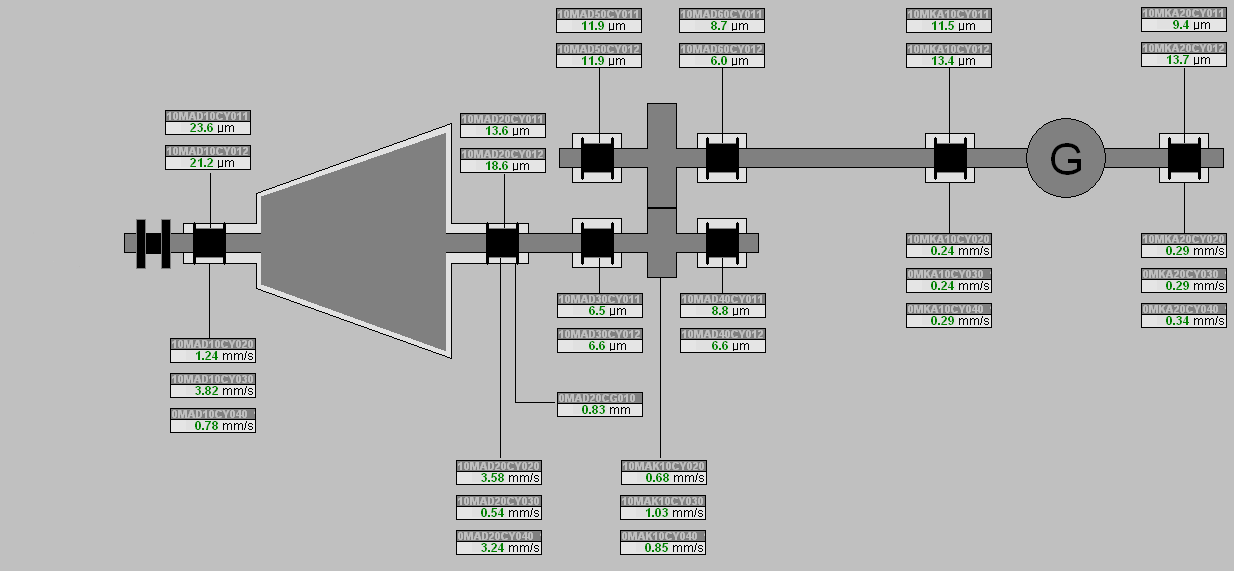
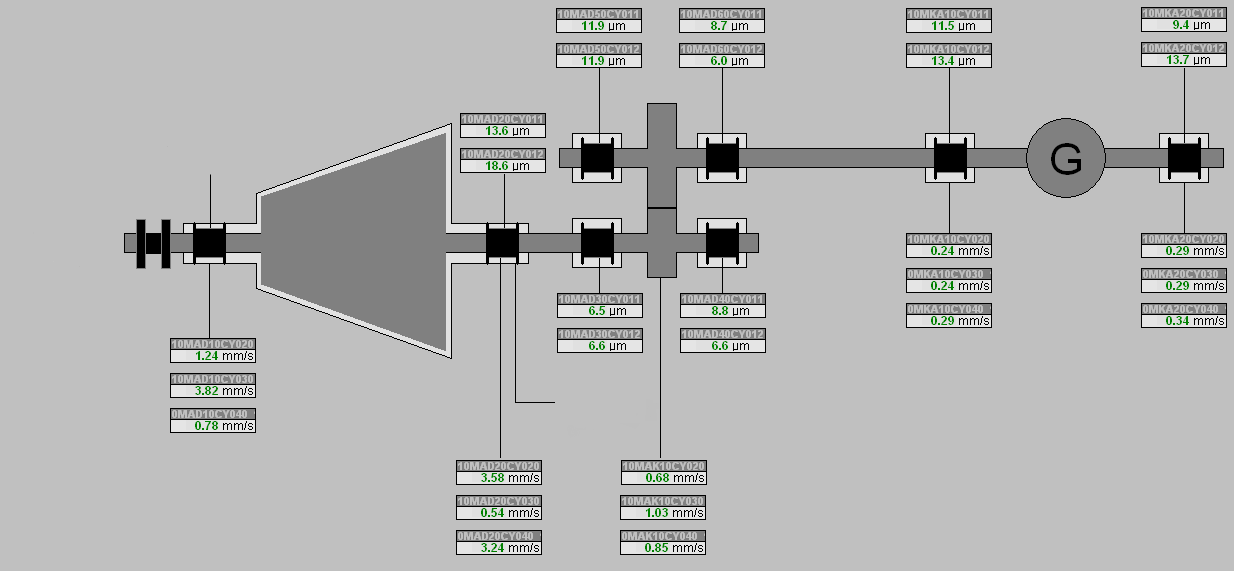
Добавлен метод в класс

Changed region(s): [[0.1232, 0.1786, 0.2156, 0.2977], [0.4311, 0.6848, 0.5235, 0.7443]]

diff --git a/BN/Views/Window/MainWindow.xaml b/BN/Views/Window/MainWindow.xaml
@@ -30,11 +30,18 @@
                         </StatusBarItem>
                     </StatusBar>
                     <Border Style="{StaticResource BorderForLabel}"  Margin="22,205,0,0" Background="{Binding bckgrd_10MAD10CG010}"/>
-                    <Border Style="{StaticResource BorderForLabel}"  Margin="22,247,0,0" />
-                    <Border Style="{StaticResource BorderForLabel}"  Margin="22,226,0,0" />
-                    <Label Content="{Binding prm_10MAD10CG012}" Style="{StaticResource Parent_LabelOnImage}" Margin="27,241,0,0" Height="30"/>
+                    <Border Style="{StaticResource BorderForLabel}"  Margin="22,247,0,0" Background="{Binding bckgrd_10MAD10CG012}"/>
+                    <Border Style="{StaticResource BorderForLabel}"  Margin="22,226,0,0" Background="{Binding bckgrd_10MAD10CG011}"/>
+                    <Border Style="{StaticResource BorderForLabel}"  Margin="501,370,0,0" Background="{Binding bckgrd_10MAD20CG010}"/>
+                    <Label Content="{Binding prm_10MAD10CG012}" Style="{StaticResource Parent_LabelOnImage}" Margin="27,241,0,0"/>
                     <Label Content="{Binding prm_10MAD10CG011}" Style="{StaticResource Parent_LabelOnImage}" Margin="27,220,0,0"/>
                     <Label Content="{Binding prm_10MAD10CG010}" Style="{StaticResource Parent_LabelOnImage}" Margin="27,199,0,0"/>
+                    <Label Content="{Binding prm_10MAD20CG010}" Style="{StaticResource Parent_LabelOnImage}" Margin="506,364,0,0"/>
+                    <Border Style="{StaticResource BorderForLabel}"  Margin="150,152,0,0" />
+                    <Label Content="{Binding prm_10MAD10CY011}" Style="{StaticResource Child_0_LabelOnImage}" Margin="155,125,0,0"/>
+                    <Border Style="{StaticResource BorderForLabel}"  Margin="150,131,0,0" />
+                    <Label Content="{Binding prm_10MAD10CY012}" Style="{StaticResource Child_0_LabelOnImage}" Margin="155,147,0,0"/>
+
                 </Grid>
             </TabItem>
             <TabItem Header="ГТ-7">

diff --git a/BN/App.xaml b/BN/App.xaml
@@ -26,8 +26,8 @@
             <Setter Property="HorizontalAlignment" Value="Left" />
             <Setter Property="VerticalAlignment" Value="Top" />
         </Style>
-                <Style x:Key="Child_LabelOnImage" TargetType="Label" BasedOn="{StaticResource Parent_LabelOnImage}">
-                <Setter Property="ContentStringFormat" Value="0.00 мк"/>
+                <Style x:Key="Child_0_LabelOnImage" TargetType="Label" BasedOn="{StaticResource Parent_LabelOnImage}">
+                <Setter Property="ContentStringFormat" Value="0.0 мк"/>
             </Style>
     </Application.Resources>
 </Application>

diff --git a/BN/ViewModels/Base/MainWindowViewModel.cs b/BN/ViewModels/Base/MainWindowViewModel.cs
@@ -16,22 +16,42 @@ namespace BN.ViewModels.Base
 {
     internal class MainWindowViewModel : ViewModel
     {
+        //Замена если вышло за границы
+        private const double FaultReplace_0 = 999.999; 
+        private const double FaultReplace_1 = 999.9;
+
+        #region Параметры для шкалирования ПТ-6
         private const ushort GatewayFullScaleValue_ST6 = 16383;
-        private const sbyte UpperMonitorRange_ST6_gr0 = 1;
-        private const sbyte LowerMonitorRange_ST6_gr0 = -1;
-        private const double FaultReplace_ST6_gr0 = 99.999;
 
-        private const double WH_Y_0_ST6_gr0 = 0.5;
-        private const double WH_Y_1_ST6_gr0 = 0.79;
-        private const double WL_Y_0_ST6_gr0 = -0.5;
-        private const double WL_Y_1_ST6_gr0 = -0.79;
-        private const double AH_R_0_ST6_gr0 = 0.8;
-        private const double AH_R_1_ST6_gr0 = 0.99;
-        private const double AL_R_0_ST6_gr0 = -0.8;
-        private const double AL_R_1_ST6_gr0 = -0.99;
-        private const double Fault_0_ST6_gr0 = 1;
-        private const double Fault_1_ST6_gr0 = -1;
+        private const short LowerMonitorRange_ST6_gr0 = 0;
+        private const short UpperMonitorRange_ST6_gr0 = 200;
 
+        private const short LowerMonitorRange_ST6_gr1 = -1;
+        private const short UpperMonitorRange_ST6_gr1 = 1;
+
+        private const short LowerMonitorRange_ST6_gr5 = -6;
+        private const short UpperMonitorRange_ST6_gr5 = 4;
+        #endregion
+
+        #region Аварийные и предупредительные границы ПТ-6
+        private const double WH_Y_0_ST6_gr1 = 0.5;
+        private const double WH_Y_1_ST6_gr1 = 0.79;
+        private const double WL_Y_0_ST6_gr1 = -0.5;
+        private const double WL_Y_1_ST6_gr1 = -0.79;
+        private const double AH_R_0_ST6_gr1 = 0.8;
+        private const double AH_R_1_ST6_gr1 = 1;
+        private const double AL_R_0_ST6_gr1 = -0.8;
+        private const double AL_R_1_ST6_gr1 = -1;
+
+        private const double WH_Y_0_ST6_gr5 = 0.5;
+        private const double WH_Y_1_ST6_gr5 = 1.99;
+        private const double WL_Y_0_ST6_gr5 = -2.5;
+        private const double WL_Y_1_ST6_gr5 = -3.99;
+        private const double AH_R_0_ST6_gr5 = 2;
+        private const double AH_R_1_ST6_gr5 = 4;
+        private const double AL_R_0_ST6_gr5 = -4.0;
+        private const double AL_R_1_ST6_gr5 = -6;
+        #endregion
 
         #region Заголовок окна
         private string _wnd_Title = "АСКВД BN";
@@ -67,12 +87,47 @@ namespace BN.ViewModels.Base
         }
         #endregion
 
-        #region Фон для параметров ПТ-6 надо делать
+        #region Фон для параметров ПТ-6
         private string _bckgrd_10MAD10CG010;
         public string bckgrd_10MAD10CG010
         {
             get => _bckgrd_10MAD10CG010;
             set => Set(ref _bckgrd_10MAD10CG010, value);
+        }
+
+        private string _bckgrd_10MAD10CG011;
+        public string bckgrd_10MAD10CG011
+        {
+            get => _bckgrd_10MAD10CG011;
+            set => Set(ref _bckgrd_10MAD10CG011, value);
+        }
+
+        private string _bckgrd_10MAD10CG012;
+        public string bckgrd_10MAD10CG012
+        {
+            get => _bckgrd_10MAD10CG012;
+            set => Set(ref _bckgrd_10MAD10CG012, value);
+        }
+
+        private string _bckgrd_10MAD20CG010;
+        public string bckgrd_10MAD20CG010
+        {
+            get => _bckgrd_10MAD20CG010;
+            set => Set(ref _bckgrd_10MAD20CG010, value);
+        }
+
+        private string _bckgrd_10MAD10CY011;
+        public string bckgrd_10MAD10CY011
+        {
+            get => _bckgrd_10MAD10CY011;
+            set => Set(ref _bckgrd_10MAD10CY011, value);
+        }
+
+        private string _bckgrd_10MAD10CY012;
+        public string bckgrd_10MAD10CY012
+        {
+            get => _bckgrd_10MAD10CY012;
+            set => Set(ref _bckgrd_10MAD10CY012, value);
         }
         #endregion
 
@@ -121,7 +176,7 @@ namespace BN.ViewModels.Base
         }
         #endregion
 
-        #region Измеряемые велечины
+        #region Измеряемые велечины ПТ-6
         private double _prm_10MAD10CG010;
         public double prm_10MAD10CG010
         {
@@ -142,6 +197,30 @@ namespace BN.ViewModels.Base
             get => _prm_10MAD10CG012;
             set => Set(ref _prm_10MAD10CG012, value);
         }
+
+        private double _prm_10MAD20CG010;
+        public double prm_10MAD20CG010
+        {
+            get => _prm_10MAD20CG010;
+            set => Set(ref _prm_10MAD20CG010, value);
+        }
+
+        private double _prm_10MAD10CY011;
+        public double prm_10MAD10CY011
+        {
+            get => _prm_10MAD10CY011;
+            set => Set(ref _prm_10MAD10CY011, value);
+        }
+
+        private double _prm_10MAD10CY012;
+        public double prm_10MAD10CY012
+        {
+            get => _prm_10MAD10CY012;
+            set => Set(ref _prm_10MAD10CY012, value);
+        }
+
+
+
         #endregion
 
 
@@ -160,7 +239,6 @@ namespace BN.ViewModels.Base
             cmd_ConToRack_ST6 = new RelayCommand(o =>
             {
                 bt_Discon_ST6 = false;
-                bt_DisconAct_ST6 = true;
 
                  var modbusClient_ST6 = new ModbusClient(tb_AdressIP_ST6, 502);
 
@@ -185,34 +263,62 @@ namespace BN.ViewModels.Base
                       tbl_Status_ST6 = "Подключено";
                       sb_Bckgrnd_ST6 = "LightGreen";
                       bt_ConAct_ST6 = false;
-                      tb_IPAdrrAct_ST6 = false;    
+                      tb_IPAdrrAct_ST6 = false;
+                      bt_DisconAct_ST6 = true;
 
-                      var bnRack_ST6 = new BNRack();
+                var bnRack_ST6 = new BNRack();
                       var timer_ST6 = new DispatcherTimer(DispatcherPriority.Render);              
                        timer_ST6.Interval = TimeSpan.FromSeconds(1);
                        timer_ST6.Tick += (sender, args) =>
                       {
                           if (bt_Discon_ST6 == false)
                           {
-                              int[] prm_st6_gr0 = modbusClient_ST6.ReadHoldingRegisters(0, 3);
-                              double [] rtrn_prm_st6_gr0 = bnRack_ST6.Scale(prm_st6_gr0, GatewayFullScaleValue_ST6, 
+                              int[] prm_st6_gr0 = modbusClient_ST6.ReadHoldingRegisters(5000, 23);
+                              double[] rtrn_prm_st6_gr0 = bnRack_ST6.Scale(prm_st6_gr0, GatewayFullScaleValue_ST6,
                                                                             LowerMonitorRange_ST6_gr0, UpperMonitorRange_ST6_gr0,
-                                                                            FaultReplace_ST6_gr0);
-
-                              prm_10MAD10CG010 = rtrn_prm_st6_gr0[0];
-                              prm_10MAD10CG011 = rtrn_prm_st6_gr0[1];
-                              prm_10MAD10CG012 = rtrn_prm_st6_gr0[2];
+                                                                            FaultReplace_1);
+                              int[] prm_st6_gr1 = modbusClient_ST6.ReadHoldingRegisters(5024, 2);
+                              double[] rtrn_prm_st6_gr1 = bnRack_ST6.Scale(prm_st6_gr1, GatewayFullScaleValue_ST6, 
+                                                                            LowerMonitorRange_ST6_gr1, UpperMonitorRange_ST6_gr1,
+                                                                            FaultReplace_0);
+                              int[] prm_st6_gr5 = modbusClient_ST6.ReadHoldingRegisters(5042, 1);
+                              double[] rtrn_prm_st6_gr5 = bnRack_ST6.Scale(prm_st6_gr5, GatewayFullScaleValue_ST6,
+                                                                            LowerMonitorRange_ST6_gr5, UpperMonitorRange_ST6_gr5,
+                                                                            FaultReplace_0);
+                              int[] prm_st6_gr7 = modbusClient_ST6.ReadHoldingRegisters(5047, 1);
+                              double[] rtrn_prm_st6_gr7 = bnRack_ST6.Scale(prm_st6_gr7, GatewayFullScaleValue_ST6,
+                                                                            LowerMonitorRange_ST6_gr1, UpperMonitorRange_ST6_gr1,
+                                                                            FaultReplace_0);
 
                               var visualEffects = new VisualEffects();
-                              string [] bckgrd_gr0 = visualEffects.LimitBrush(rtrn_prm_st6_gr0, WH_Y_0_ST6_gr0, WH_Y_1_ST6_gr0,
-                                                                              WL_Y_0_ST6_gr0, WL_Y_1_ST6_gr0, AH_R_0_ST6_gr0,
-                                                                              AH_R_1_ST6_gr0, AL_R_0_ST6_gr0, AL_R_1_ST6_gr0,
-                                                                              Fault_0_ST6_gr0, Fault_1_ST6_gr0);
+                              string[] bckgrd_gr1 = visualEffects.LimitBrush_0(rtrn_prm_st6_gr1, WH_Y_0_ST6_gr1, WH_Y_1_ST6_gr1,
+                                                                              WL_Y_0_ST6_gr1, WL_Y_1_ST6_gr1, AH_R_0_ST6_gr1,
+                                                                              AH_R_1_ST6_gr1, AL_R_0_ST6_gr1, AL_R_1_ST6_gr1,
+                                                                              UpperMonitorRange_ST6_gr1, LowerMonitorRange_ST6_gr1);
+                              string[] bckgrd_gr5 = visualEffects.LimitBrush_0(rtrn_prm_st6_gr5, WH_Y_0_ST6_gr5, WH_Y_1_ST6_gr5,
+                                                                              WL_Y_0_ST6_gr5, WL_Y_1_ST6_gr5, AH_R_0_ST6_gr5,
+                                                                              AH_R_1_ST6_gr5, AL_R_0_ST6_gr5, AL_R_1_ST6_gr5,
+                                                                              UpperMonitorRange_ST6_gr5, LowerMonitorRange_ST6_gr5);
+                              string[] bckgrd_gr7 = visualEffects.LimitBrush_0(rtrn_prm_st6_gr7, WH_Y_0_ST6_gr1, WH_Y_1_ST6_gr1,
+                                                WL_Y_0_ST6_gr1, WL_Y_1_ST6_gr1, AH_R_0_ST6_gr1,
+                                                AH_R_1_ST6_gr1, AL_R_0_ST6_gr1, AL_R_1_ST6_gr1,
+                                                UpperMonitorRange_ST6_gr1, LowerMonitorRange_ST6_gr1);
 
-                              bckgrd_10MAD10CG010  = bckgrd_gr0[0];
+                              prm_10MAD10CY011 = rtrn_prm_st6_gr0[0];
+                              prm_10MAD10CY012 = rtrn_prm_st6_gr0[2];
+                              prm_10MAD10CG010 = rtrn_prm_st6_gr1[0];
+                              prm_10MAD10CG011 = rtrn_prm_st6_gr1[1];
+                              prm_10MAD20CG010 = rtrn_prm_st6_gr5[0];
+                              prm_10MAD10CG012 = rtrn_prm_st6_gr7[0];
+
+                              bckgrd_10MAD10CG010 = bckgrd_gr1[0];
+                              bckgrd_10MAD10CG011 = bckgrd_gr1[1];
+                              bckgrd_10MAD20CG010 = bckgrd_gr5[0];
+                              bckgrd_10MAD10CG012 = bckgrd_gr7[0];
 
 
-    }
+
+                          }
                           else
                           {
                               modbusClient_ST6.Disconnect();
@@ -234,11 +340,6 @@ namespace BN.ViewModels.Base
 
             });
 
-
-
-
-
-         //   BackgroundBorder = "#e5e5e5";
 
 
 

diff --git a/BN/Models/VisualEffects.cs b/BN/Models/VisualEffects.cs
@@ -8,8 +8,22 @@ namespace BN.Models
 {
     internal class VisualEffects
     {
-
-        public string[] LimitBrush(double [] Parameter,
+        /// <summary>
+        /// Изменяет цвет Border у lable
+        /// </summary>
+        /// <param name="Parameter"></param>
+        /// <param name="WH_Y_0"></param>
+        /// <param name="WH_Y_1"></param>
+        /// <param name="WL_Y_0"></param>
+        /// <param name="WL_Y_1"></param>
+        /// <param name="AH_R_0"></param>
+        /// <param name="AH_R_1"></param>
+        /// <param name="AL_R_0"></param>
+        /// <param name="AL_R_1"></param>
+        /// <param name="Fault_0"></param>
+        /// <param name="Fault_1"></param>
+        /// <returns></returns>
+        public string[] LimitBrush_0(double [] Parameter,
                          double WH_Y_0, double WH_Y_1, double WL_Y_0, double WL_Y_1,
                          double AH_R_0, double AH_R_1, double AL_R_0, double AL_R_1,
                          double Fault_0, double Fault_1)
@@ -38,6 +52,48 @@ namespace BN.Models
                     BackgroundBorder[i] = "Blue";
                 }
 
+            }
+            return BackgroundBorder;
+        }
+        /// <summary>
+        ///  Изменяет цвет Border у lable
+        /// </summary>
+        /// <param name="Parameter"></param>
+        /// <param name="WH_Y_0"></param>
+        /// <param name="WH_Y_1"></param>
+        /// <param name="AH_R_0"></param>
+        /// <param name="AH_R_1"></param>
+        /// <param name="Fault_0"></param>
+        /// <param name="Fault_1"></param>
+        /// <returns></returns>
+        public string[] LimitBrush_1(double[] Parameter,
+                         double WH_Y_0, double WH_Y_1, 
+                         double AH_R_0, double AH_R_1, 
+                         double Fault_0, double Fault_1)
+        {
+            string[] BackgroundBorder = new string[Parameter.Length];
+
+            for (int i = 0; i < Parameter.Length; i++)
+            {
+
+                if (Parameter[i] >= WH_Y_0 && Parameter[i] <= WH_Y_1)
+                {
+                    BackgroundBorder[i] = "Yellow";
+                }
+                else
+                {
+                    BackgroundBorder[i] = "#e5e5e5";
+                }
+
+                if (Parameter[i] >= AH_R_0 && Parameter[i] <= AH_R_1)
+                {
+                    BackgroundBorder[i] = "Red";
+                }
+
+                if ((Parameter[i] > Fault_0) || (Parameter[i] < Fault_1))
+                {
+                    BackgroundBorder[i] = "Blue";
+                }
             }
             return BackgroundBorder;
         }

diff --git a/BN/Models/BNRack.cs b/BN/Models/BNRack.cs
@@ -10,16 +10,12 @@ namespace BN.Models
     internal class BNRack
     {
 
-        //private const ushort GatewayFullScaleValue = 16383;
-        //private const byte UpperMonitorRange = 1;
-        //private const sbyte LowerMonitorRange = -1;
-
         /// <summary>
         ///  Метод производит шкалирование параметров
         /// </summary>
         /// <param name="ProportionalValue">Массив не шкалированных параметров</param>
         /// <returns>Массив шкаллированных данных</returns>
-        public double[] Scale(int[] ProportionalValue, ushort GatewayFullScaleValue, sbyte LowerMonitorRange, sbyte UpperMonitorRange, double FaultReplace)
+        public double[] Scale(int[] ProportionalValue, ushort GatewayFullScaleValue, short LowerMonitorRange, short UpperMonitorRange, double FaultReplace)
         {
             double[] ScaledValue = new double[ProportionalValue.Length];
             for (int i = 0; i < ProportionalValue.Length; i++)
